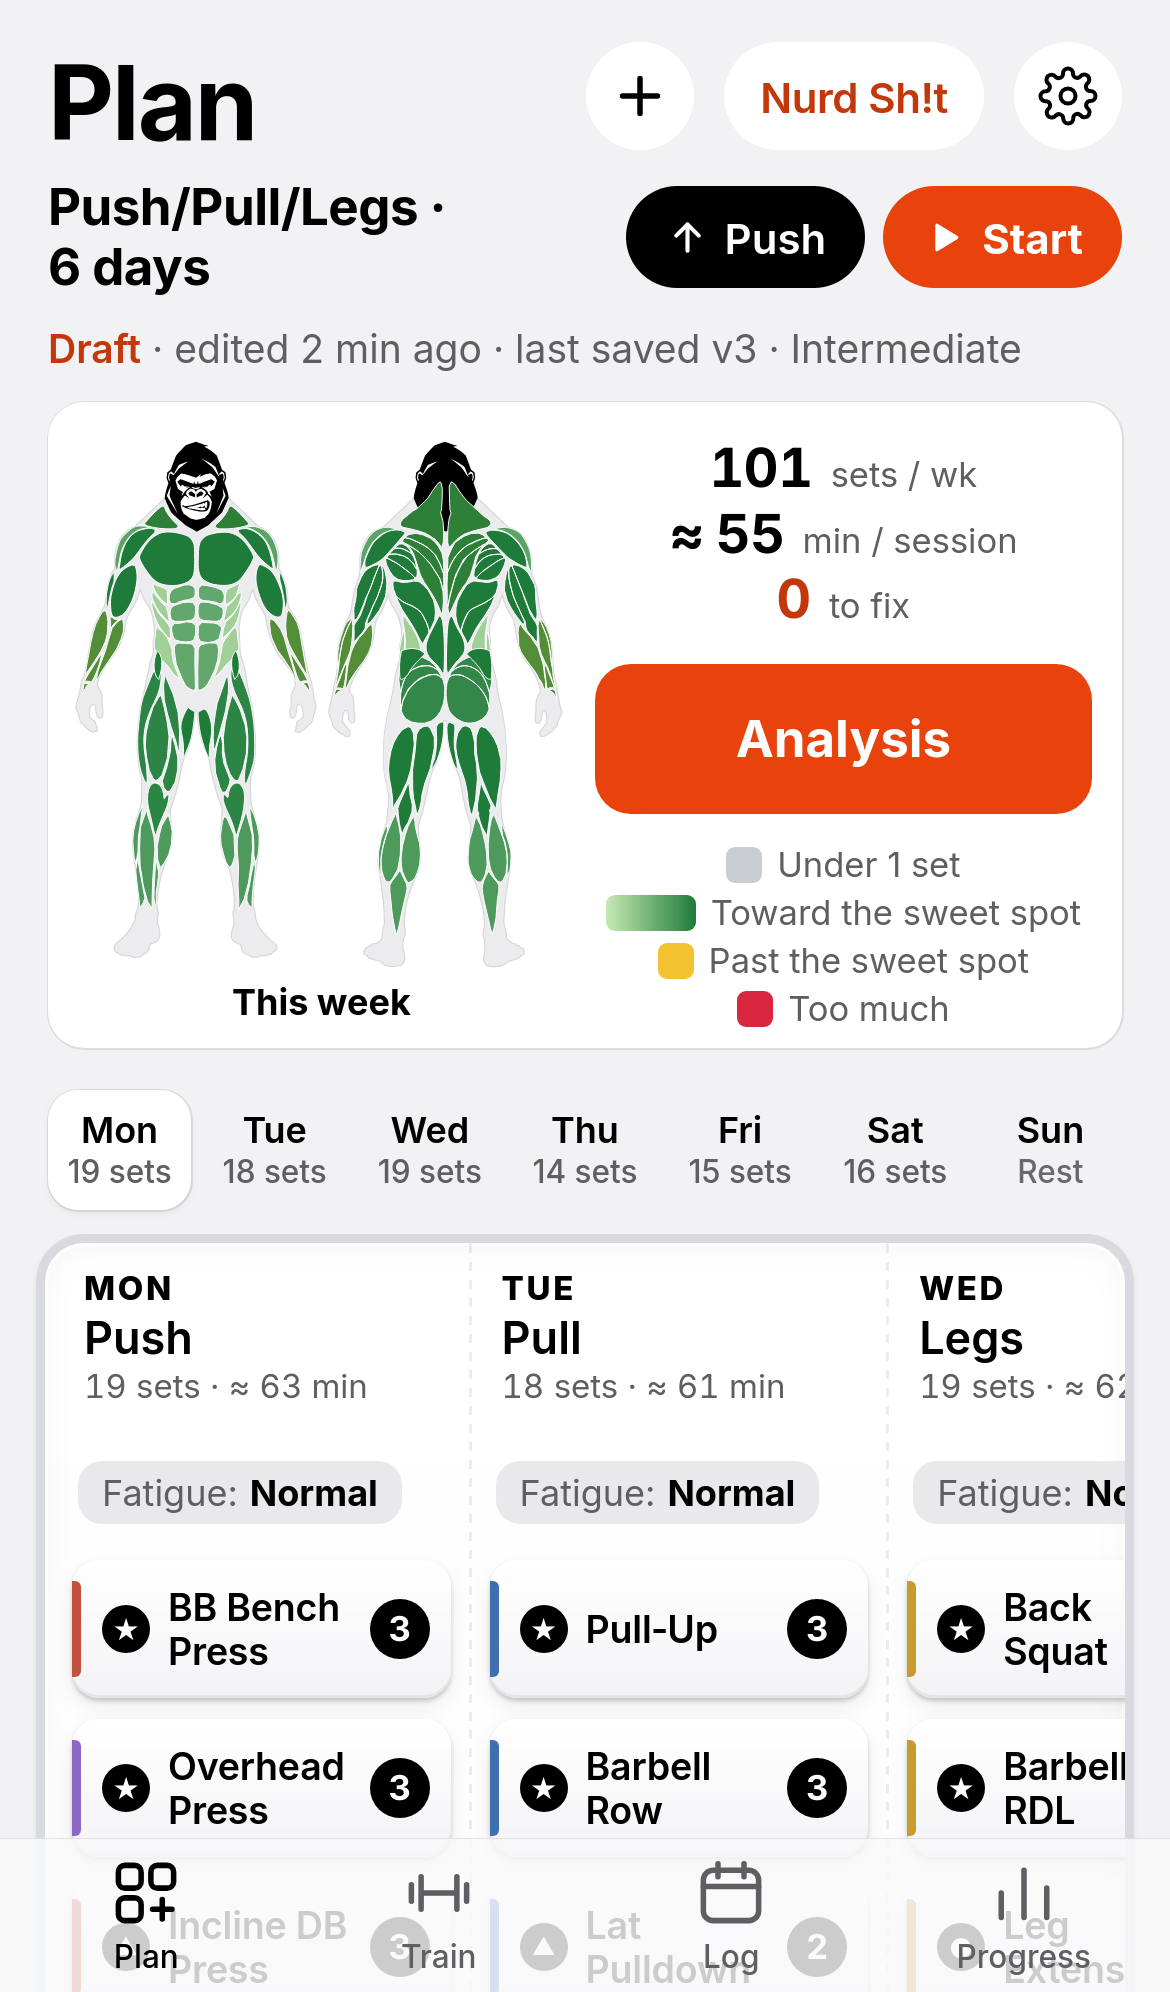
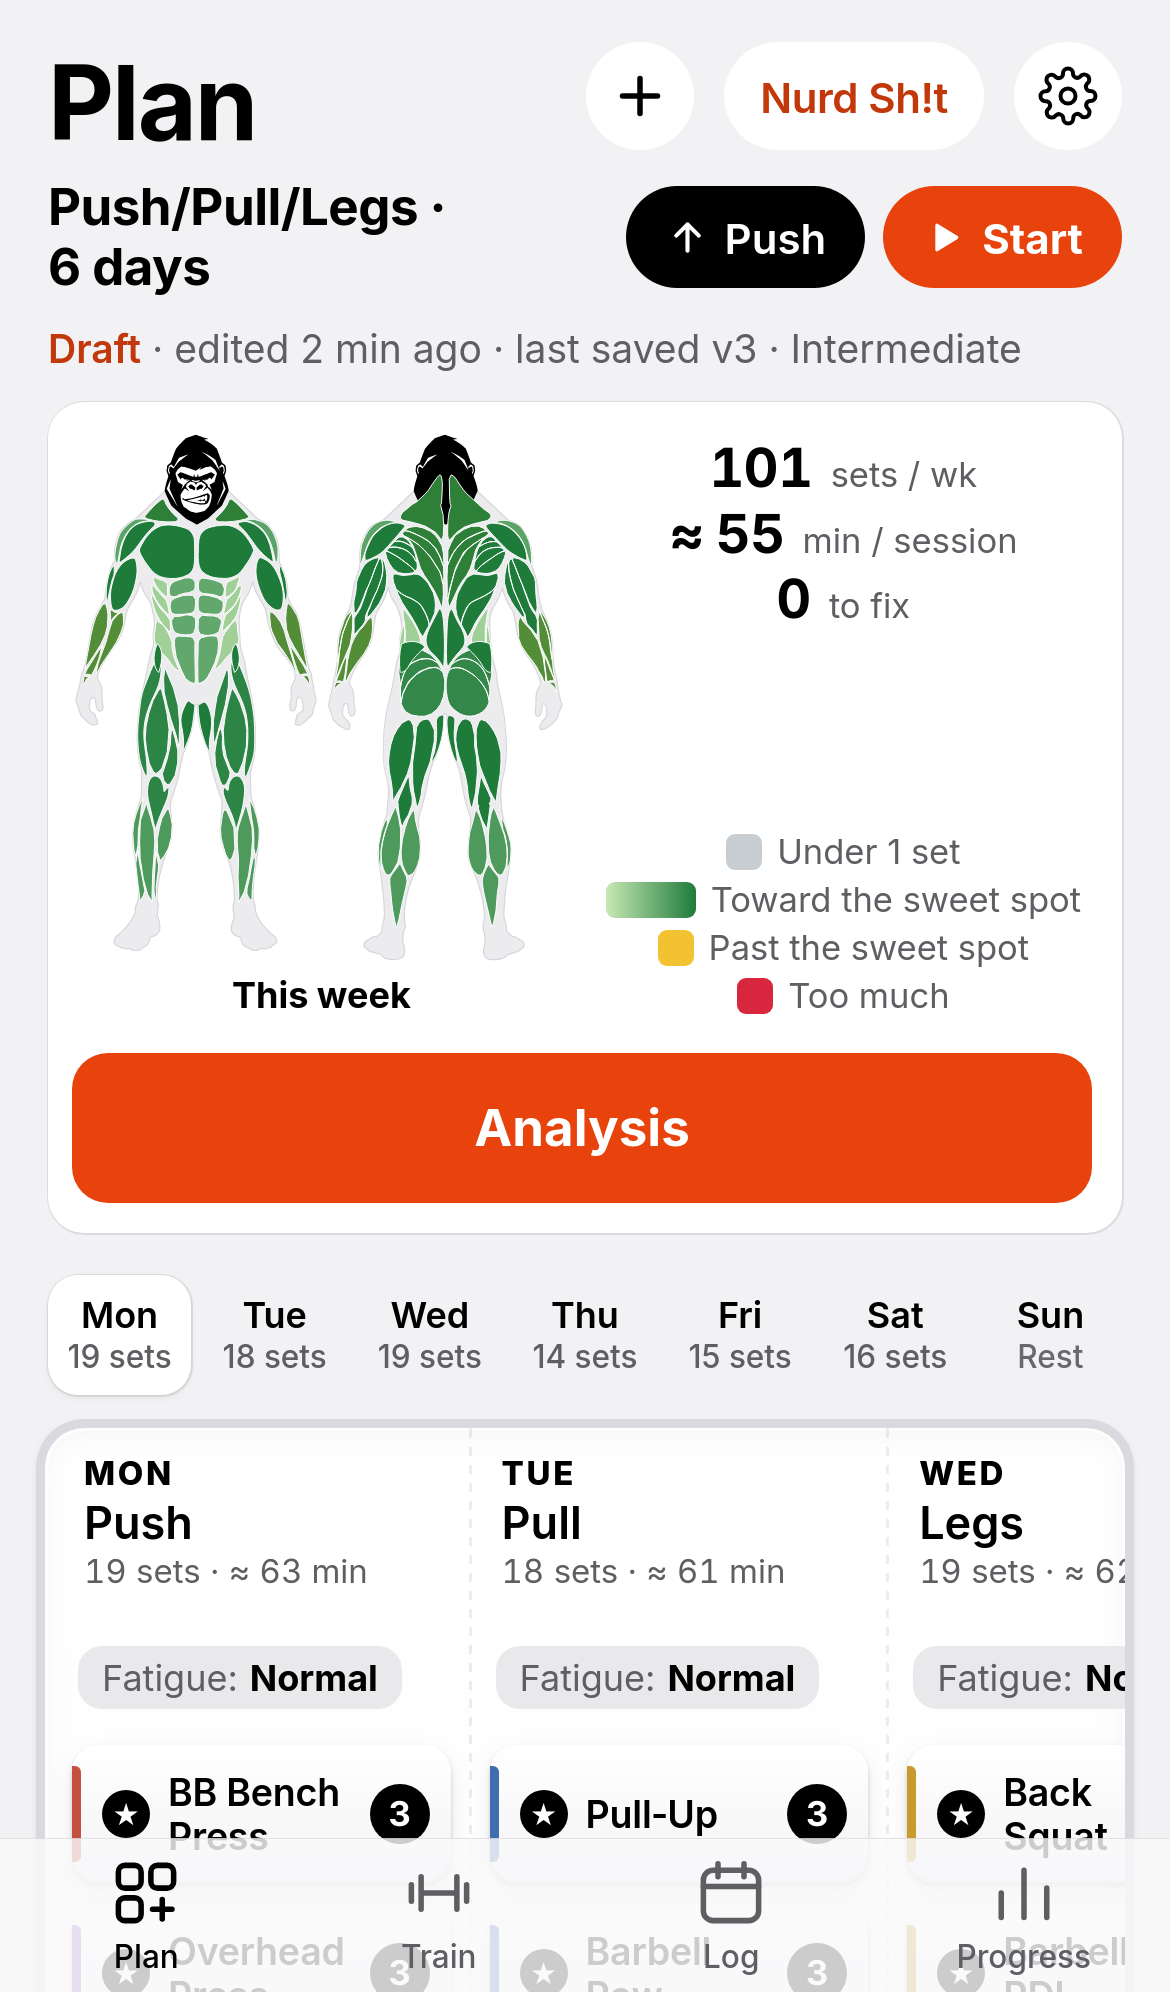
storyboard vol15 polish: zero counts neutral (only real counts red); Plan day flags full width under the map; Analysis button on its own row

diff --git a/storyboard/board.js b/storyboard/board.js
@@ -75,9 +75,9 @@ function setMap(mode,i){MAPV.mode=mode;if(i!=null)MAPV.day=i;$$('#mapseg button'
 function stripHtml(st){const {A,C,d}=st,avg=avgMins(d),fail=C.total-C.pass;
   return `<span class="ast"><b class="num" data-s="sets">${A.weekSets}</b><small>sets / wk</small></span>
    <span class="ast"><b class="num" data-s="min">${d.length?'≈ '+avg:'–'}</b><small>min / session</small></span>
-   ${openSlots()?`<span class="ast chk pend"><b class="num" data-s="checks">–</b><small>Fill slots to check</small></span>`:(()=>{const F=flags14(),n=F.filter(f=>f.sev>=2).length;return `<span class="ast chk"><b class="num" data-s="checks">${n}</b><small>${n?`<em class="chkbad">to fix</em>`:'to fix'}${F.length-n?` · ${F.length-n} smaller`:''}</small></span>`})()}`}
+   ${openSlots()?`<span class="ast chk pend"><b class="num" data-s="checks">–</b><small>Fill slots to check</small></span>`:(()=>{const F=flags14(),n=F.filter(f=>f.sev>=2).length;return `<span class="ast chk ${n?'bad':'zero'}"><b class="num" data-s="checks">${n}</b><small>${n?`<em class="chkbad">to fix</em>`:'to fix'}${F.length-n?` · ${F.length-n} smaller`:''}</small></span>`})()}`}
 function dayMeta(day){const n=sum(day.tiles.map(t=>t.sets));return day.tiles.length?`${n} sets · ≈ ${MINS(day.tiles)} min`:''}
-function paintStats(days){days=days||B.days;const st=stats(days);const mp=$('#bmap');if(mp)mp.innerHTML=mapHtml(st,days);const lg=$('#bmleg');if(lg)lg.innerHTML=MLEG||'';const s=$('#astrip');if(s){s.innerHTML=stripHtml(st);}
+function paintStats(days){days=days||B.days;const st=stats(days);const mp=$('#bmap');if(mp)mp.innerHTML=mapHtml(st,days);const lg=$('#bmleg');if(lg)lg.innerHTML=MLEG||'';const fw=$('#bmflw');if(fw)fw.innerHTML=MFL;const s=$('#astrip');if(s){s.innerHTML=stripHtml(st);}
   days.forEach((d,i)=>{const n=sum(d.tiles.map(t=>t.sets));const b=$(`#dstrip [data-jump="${i}"] .dn`);if(b){b.textContent=stripTxt(d);b.parentNode.classList.toggle('rd',isRest(d))}
     const h=$(`.col[data-day="${d.day}"] .cm`);if(h)h.textContent=dayMeta(d);const w=$(`.col[data-day="${d.day}"] .dmxw`);if(w)w.outerHTML=dmxHtml(d)});
   $$('.col').forEach((c,i)=>{const d=days[i];if(!d)return;c.classList.toggle('restday',isRest(d));const l=$('.cl',c);if(l)l.textContent=dayLabel(d)}); // preview days mid-drag
@@ -240,10 +240,11 @@ function paintImpact(){const el=$('#impc');if(el)el.innerHTML=impHtml()}
 // tapping the same day again, or the 'Week' chip, goes back to the week.
 const wkFills=A=>{const o={};for(const [m,v] of Object.entries(A.muscles)){const x=v.x!=null?v.x:v.raw;o[m]=MAPRAMP.weekly(RD(),B.level,m,Math.floor(x*100+0.5+1e-9)/100)}return MAPRAMP.fills(o)};   // x = r1(r2(weekly ES)), the displayed value
 const dayFills=d=>d&&d.tiles.length?MAPRAMP.fills(MAPRAMP.daily(RD(),tiles0(d))):{};
+let MFL='';   // vol15 polish: the day's flags render full width under the map card row (#bmflw)
 function mapHtml(st,days){const day=MAPV.mode==='day',i=MAPV.day,d=days[i];const vm=day?dayFills(d):wkFills(st.A);
   const cap=day?`<b>${WDL[i]}</b> · ${isRest(d)?'Rest':dayLabel(d)} <button class="chip wkchip" data-b="mapweek" aria-label="Back to the week">Week</button>`:'<b>This week</b>';MLEG=MAPRAMP.legend(day?'day':'week');
   const F=day&&d&&d.tiles.length&&FG()?flags14().filter(f=>f.scope==='day'&&f.day===d.day&&f.sev>=2).sort(FG().ord):[];
-  return `<div class="bmaps" data-mode="${day?'day':'week'}" data-day="${d?d.day:''}">${X.map('front',vm,{crop:1})}${X.map('back',vm,{crop:1})}</div><div class="bmcap" id="bmcap">${cap}</div>${day?`<div class="bmfl">${F.length?F.map(flagCard).join(''):'<p class="sub">Nothing to fix on this day.</p>'}</div>`:''}`}
+  const h=`<div class="bmaps" data-mode="${day?'day':'week'}" data-day="${d?d.day:''}">${X.map('front',vm,{crop:1})}${X.map('back',vm,{crop:1})}</div><div class="bmcap" id="bmcap">${cap}</div>`;MFL=day?`<div class="bmfl">${F.length?F.map(flagCard).join(''):'<p class="sub">Nothing to fix on this day.</p>'}</div>`:'';return h}
 function toggleDay(i){if(MAPV.mode==='day'&&MAPV.day===i){MAPV.mode='week'}else{MAPV.mode='day';MAPV.day=i}$$('#dstrip button').forEach((b,k)=>{const on=MAPV.mode==='day'&&k===MAPV.day;b.classList.toggle('sel',on);b.setAttribute('aria-pressed',String(on))});$$('.col').forEach((c,k)=>c.classList.toggle('dsel',MAPV.mode==='day'&&k===MAPV.day));paintStats()}
 // one flag, tap for the fix
 let FLS=null;function flagSheet(id){const f=flagById(id);if(!f)return;if(FLS&&!FLS.closed)FLS.close();
@@ -270,7 +271,7 @@ X.V.build=()=>{if(!B.days.length){initBoard();cxRestorePlaced()}
   <div class="bname"><div class="bn">${nbName(B.name||'New routine')}</div>
    <div class="bacts"><button class="btn ink" data-b="push" aria-label="Push to Library">${X.I('up',2.2)}<span class="bl-l">Push to Library</span><span class="bl-s">Push</span></button><button class="btn accent" data-b="start" aria-label="Start training">${X.I('play')}<span class="bl-l">Start training</span><span class="bl-s">Start</span></button></div>
    <div class="bstate" id="bstate">${stateLine()}</div></div>
-  <div class="bsum"><div class="bsmap" id="bmap"></div><div class="bsr"><div class="astrip" id="astrip"></div><button class="btn accent anbtn" data-b="analysis">Analysis</button><div class="bmleg" id="bmleg"></div></div></div>
+  <div class="bsum"><div class="bsmap" id="bmap"></div><div class="bsr"><div class="astrip" id="astrip"></div><div class="bmleg" id="bmleg"></div></div><div class="bmflw" id="bmflw"></div><button class="btn accent anbtn" data-b="analysis">Analysis</button></div>
   <div class="bstick">
    <div class="dstrip" id="dstrip">${WD.map((w,i)=>`<button data-jump="${i}" aria-label="Jump to ${WDL[i]}"><span>${w}</span><small class="dn"></small></button>`).join('')}</div>
    <div class="selbar" id="selbar"><span id="selt"></span><button class="btn plain" data-b="seldone">Done</button></div></div>

diff --git a/storyboard/sb.css b/storyboard/sb.css
@@ -1856,3 +1856,7 @@ svg.pwbars .pwbl{font-size:10px;fill:var(--text-2)}
 .cal-f{flex-wrap:wrap;row-gap:4px}
 .bh{flex-wrap:wrap;row-gap:4px}.bh .evw{max-width:100%}
 .illh{margin:0 0 4px;font-size:var(--t-sub);line-height:1.3}.illh b{font-weight:600}.illh .evl{white-space:normal}
+/* vol15 polish: a zero count is neutral (only a real count is red); the day's flags and the Analysis button each get a full-width row */
+.ast.chk{color:var(--ink)}.ast.chk.bad b{color:var(--accent-text)}.ast.chk.zero b{color:var(--ink)}
+.bsum .bmflw{grid-column:1/-1;min-width:0}.bsum .bmflw:empty{display:none}.bsum .bmflw .bmfl{margin-top:0}
+.bsum .anbtn{grid-column:1/-1;width:100%}
